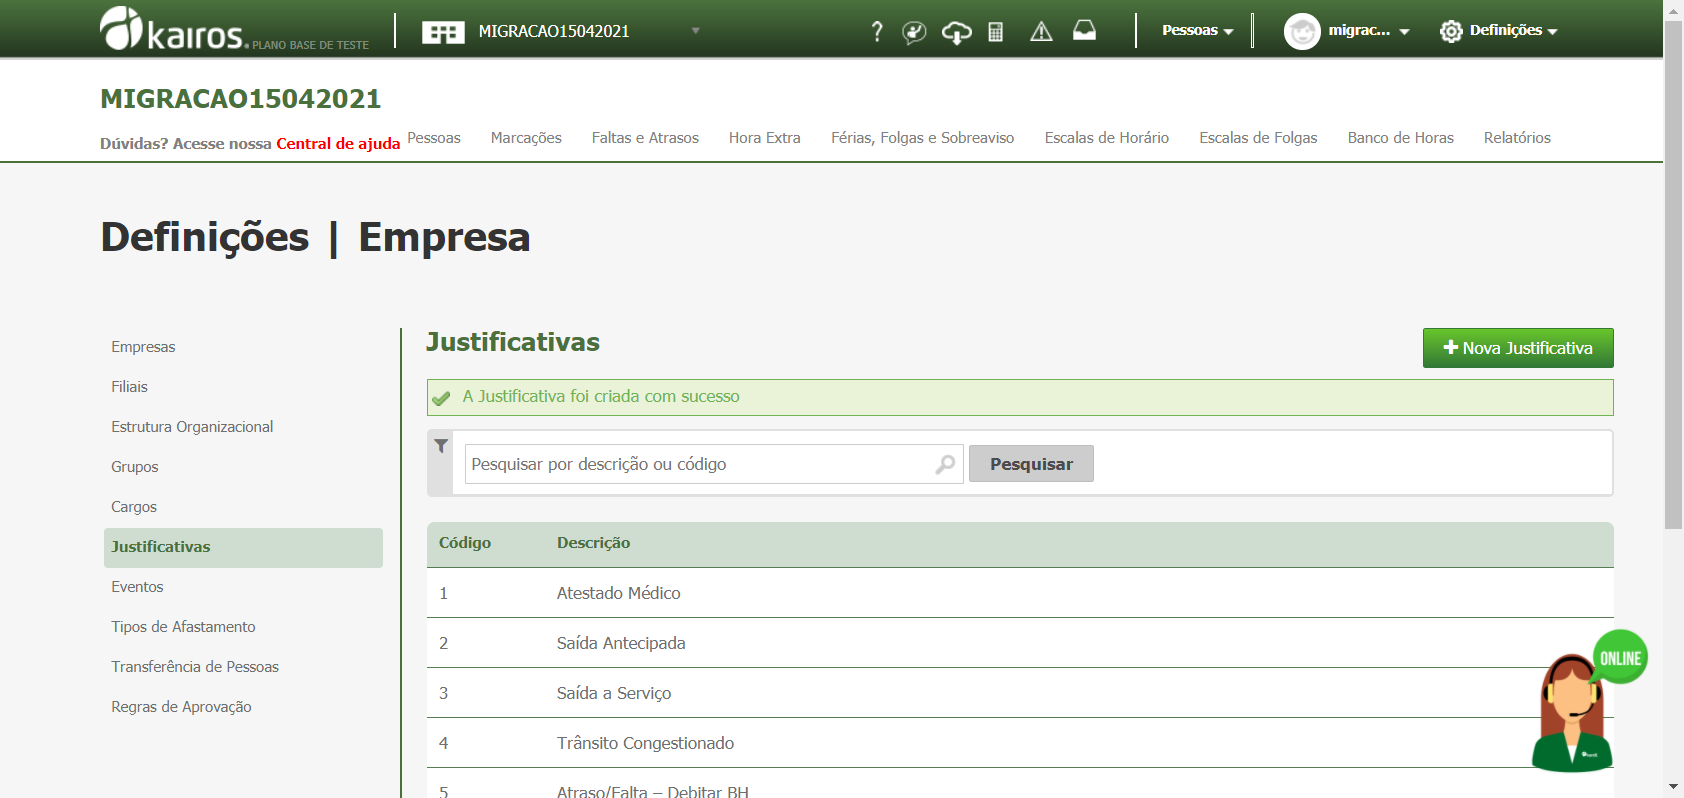
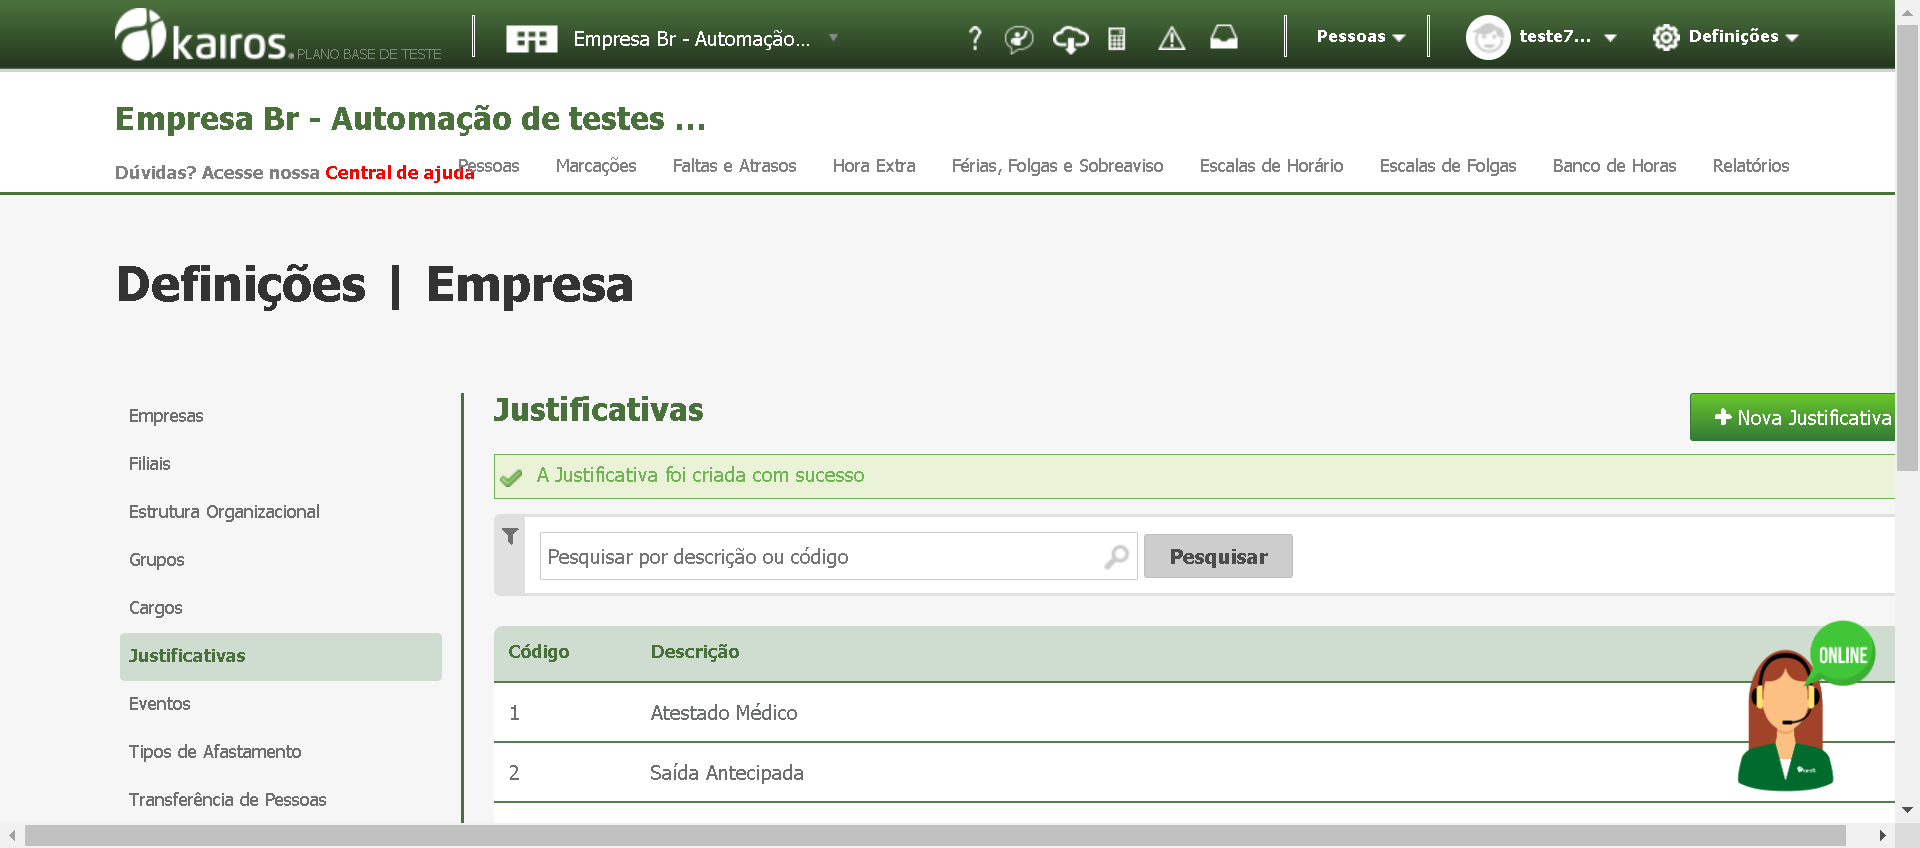
Alteração de URL de acesso ao Kairos - aceite de cookies - acesso a justificativa

diff --git a/Kairos_Testes_Integrados_BR_qcmaint/spec/cenarios_Integrados/6-def_emp_justificativas_spec.rb b/Kairos_Testes_Integrados_BR_qcmaint/spec/cenarios_Integrados/6-def_emp_justificativas_spec.rb
@@ -1,13 +1,28 @@
 describe 'justificativas', :justificativas do
   before(:each) do
-    visit '/Dimep/Account/LogOn?ReturnUrl=%2F'
+    visit '/'
+    sleep 2
 
-    fill_in 'LogOnModel_UserName', with: 'migracao15042021@dimep.com'
-    fill_in 'LogOnModel_Password', with: '1'
+    #Aceitando os cookies
+    find('div[class="cc-compliance"]', text: 'Aceitar e fechar').click
+    sleep 2 
+
+    fill_in 'LogOnModel_UserName', with: @login
+    fill_in 'LogOnModel_Password', with: @senha
     click_button 'Entrar'
 
-    visit '/admin/Justificativas'
-    visit '/admin/Justificativas/Create'
+    # Acessando o cadastro justificativas pela navegação de telas
+    selecionar = find('div[id="toggleUserDefinitions"]')
+    selecionar.hover
+    sleep 3
+
+    find('div[class="pointer DropDownHeaderElement"]', text: 'Empresa').click
+    find('div[id="MenuJustificativas"]').click
+
+    # visit '/admin/Justificativas/Create'
+    drop = find('label[class="pointer"]', text: 'Nova Justificativa').click
+    
+
   end
 
   it 'CT006 Inserir uma nova justificatica', :ct006_justificativas do
